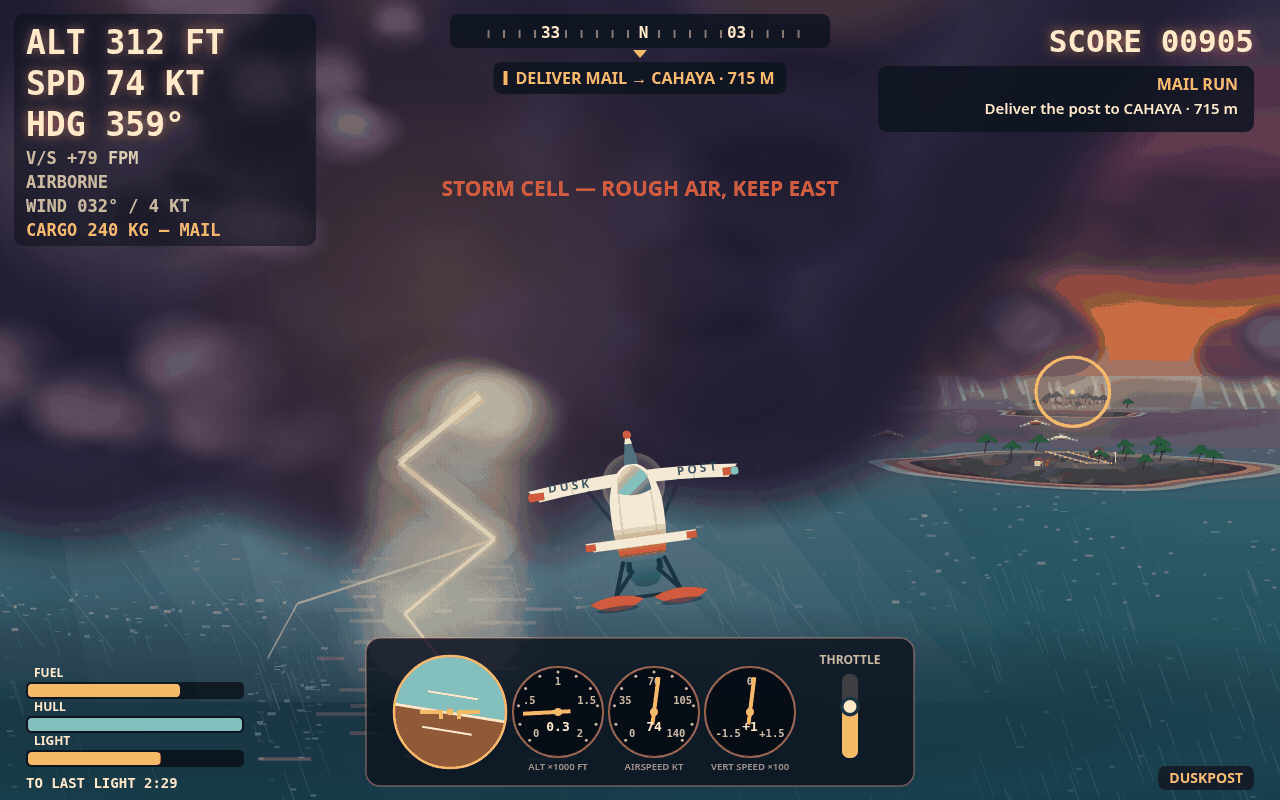
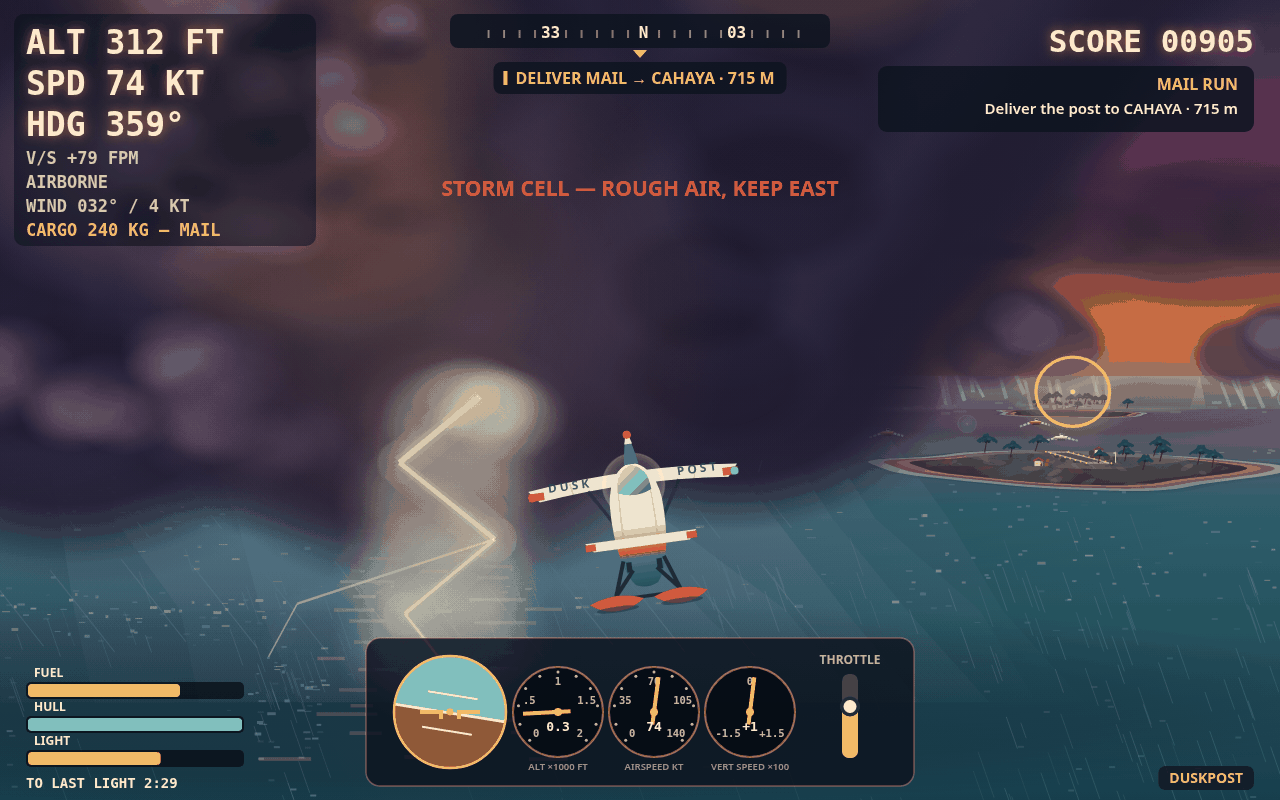
V49: the storm's dark corner carries light now, and the cover's field has a second gold in it (STORM-FLANK-LIGHT + GRASS-STRAW-2 + FINAL-PILL + BIRDS-2)

Changed region(s): [[0.1562, 0.0, 0.375, 0.375]]

diff --git a/game/src/render.js b/game/src/render.js
@@ -135,7 +135,7 @@ function drawBirds(ctx, v, light, t, sunBlock) {
   ctx.strokeStyle = 'rgba(40,22,36,0.85)';
   ctx.lineCap = 'round';
   ctx.lineWidth = 3.2;
-  for (let i = 0; i < 5; i += 1) {
+  for (let i = 0; i < 7; i += 1) { // V49 BIRDS-2: two more gulls for the empty top-left sky
     const bh = Math.sin(i * 12.9898 + 4.7) * 43758.5453;
     const bf = bh - Math.floor(bh);
     const bx = ((i * 173 + 890 + t * 7) % 1500) - 110;
@@ -2477,7 +2477,17 @@ function drawStorm(ctx, v, storm, t) {
   // its lift.
   softPuff(ctx, cx, baseY - bodySpan * 0.45, R * 1.02, 'rgba(33,29,50,0.16)', 'rgba(33,29,50,0)');
   for (const [fx, fy, fr] of puffs) {
-    if (fy < 0.6) continue;
+    // V49 STORM-FLANK-LIGHT: the warm rim-light (the sun's own
+    // colour — the sun hangs west, the flank faces it) only runs at
+    // fy >= 0.6, screen y <= 26 in the storm shot — off-frame — while
+    // the frame's darkest quarter (mean 58, 26.9% <40) is fy 0.25-0.60
+    // on the west flank. Extend it down to fy 0.25-0.60 for fx < 0.1:
+    // six puffs, same 0.13 alpha and 0.66x radii as the existing pass.
+    // NOT the V29 eastern grain (0.50 alpha, radii to 0.26R, washed
+    // the flank flat) — this is the existing device at its own dose.
+    // Guards: quarter mean lifts (58 -> ~65-75) while sd holds >= 30;
+    // the bolt's flash field is clear (pass ends y251, bolt ~y330).
+    if (fy < 0.25 || (fy < 0.6 && fx >= 0.1)) continue;
     softPuff(ctx, cx + (fx - 0.1) * R, baseY - bodySpan * (fy + 0.03), fr * R * 0.66, 'rgba(255,150,90,0.13)', 'rgba(255,150,90,0)');
   }
   // Shoulder texture: the main passes are a dozen huge soft gradients,
@@ -4005,6 +4015,38 @@ function drawIsland(ctx, v, isl, t, light, world) {
         ctx.fillStyle = sh(i, 143) > 0.62
           ? hexA(tone('#c2a15e', '#6b5326'), speckA * 1.17)
           : hexA(toneLand('#8a6f3a', '#4a3a1c'), speckA * 1.3);
+        ctx.beginPath();
+        ctx.ellipse(sp.x, sp.y, sr * sasp, sr * 0.75, srot, 0, Math.PI * 2);
+        ctx.fill();
+      }
+      // V49 GRASS-STRAW-2: the band is still 77.1% green at
+      // judge size — one straw tone mottles it, a second paler gold
+      // tone breaks the green dominance further. Same band, same
+      // fixed-point height inversion and island clip, new salts
+      // 151-156, count 120, paler gold ('#d8b878'/'#a8823e').
+      // The approach grass 2x crop is the guard: if it turns
+      // scratchy or the band reads as confetti, this reverts.
+      for (let i = 0; i < 120; i += 1) {
+        const sx = 100 + sh(i, 151) * 1180;
+        const sy = 400 + sh(i, 152) * 100;
+        let swx = 0, swz = 0, shgt = 0;
+        for (let it = 0; it < 3; it += 1) {
+          const ss = (sy - v.horizon) / (v.camY - shgt);
+          if (ss <= 0) break;
+          const sfwd = v.focal / ss;
+          const sright = (sx - VIEW_W / 2) / ss;
+          swx = v.camX + sfwd * v.sinH + sright * v.cosH;
+          swz = v.camZ + sfwd * v.cosH - sright * v.sinH;
+          shgt = world.heightAt(swx, swz);
+        }
+        const sp = project(v, swx, shgt, swz);
+        if (!sp || sp.x < 100 || sp.x > 1280 || sp.y < 400 || sp.y > 500) continue;
+        const sr = clamp(sp.s * 0.75, 3.5, 5.0) * (0.7 + sh(i, 154) * 0.6);
+        const srot = (sh(i, 155) - 0.5) * 1.05;
+        const sasp = 1.5 + sh(i, 156) * 1.5;
+        ctx.fillStyle = sh(i, 153) > 0.62
+          ? hexA(tone('#d8b878', '#8a6a30'), speckA * 1.17)
+          : hexA(toneLand('#a8823e', '#5e4a22'), speckA * 1.3);
         ctx.beginPath();
         ctx.ellipse(sp.x, sp.y, sr * sasp, sr * 0.75, srot, 0, Math.PI * 2);
         ctx.fill();

diff --git a/game/src/instruments.js b/game/src/instruments.js
@@ -386,10 +386,20 @@ function drawApproachGuidance(ctx, W, H, plane, world) {
   ctx.beginPath();
   ctx.arc(gx - lineErr * 62, gy + slopeErr * 24, 7, 0, Math.PI * 2);
   ctx.fill();
+  // V49 FINAL-PILL: the cream text sits on whatever terrain
+  // projects behind it — on the cover the white hut behind "235 m"
+  // leaves ~25 levels of contrast. A dark backing pill, the beacon
+  // labels' own device, sized to the text; it sits 8 px above the
+  // ladder box and covers no other text.
+  const finalLabel = `FINAL — ${strip.name} STRIP · ${Math.round(dz)} m`;
   ctx.font = '700 17px system-ui, sans-serif';
   ctx.textAlign = 'center';
+  const fw = ctx.measureText(finalLabel).width;
+  ctx.fillStyle = 'rgba(10,14,22,0.38)';
+  roundRect(ctx, gx - fw / 2 - 8, gy - 44 - 17, fw + 16, 23, 6);
+  ctx.fill();
   ctx.fillStyle = '#ffe9c9';
-  ctx.fillText(`FINAL — ${strip.name} STRIP · ${Math.round(dz)} m`, gx, gy - 44);
+  ctx.fillText(finalLabel, gx, gy - 44);
   ctx.restore();
 }
 
